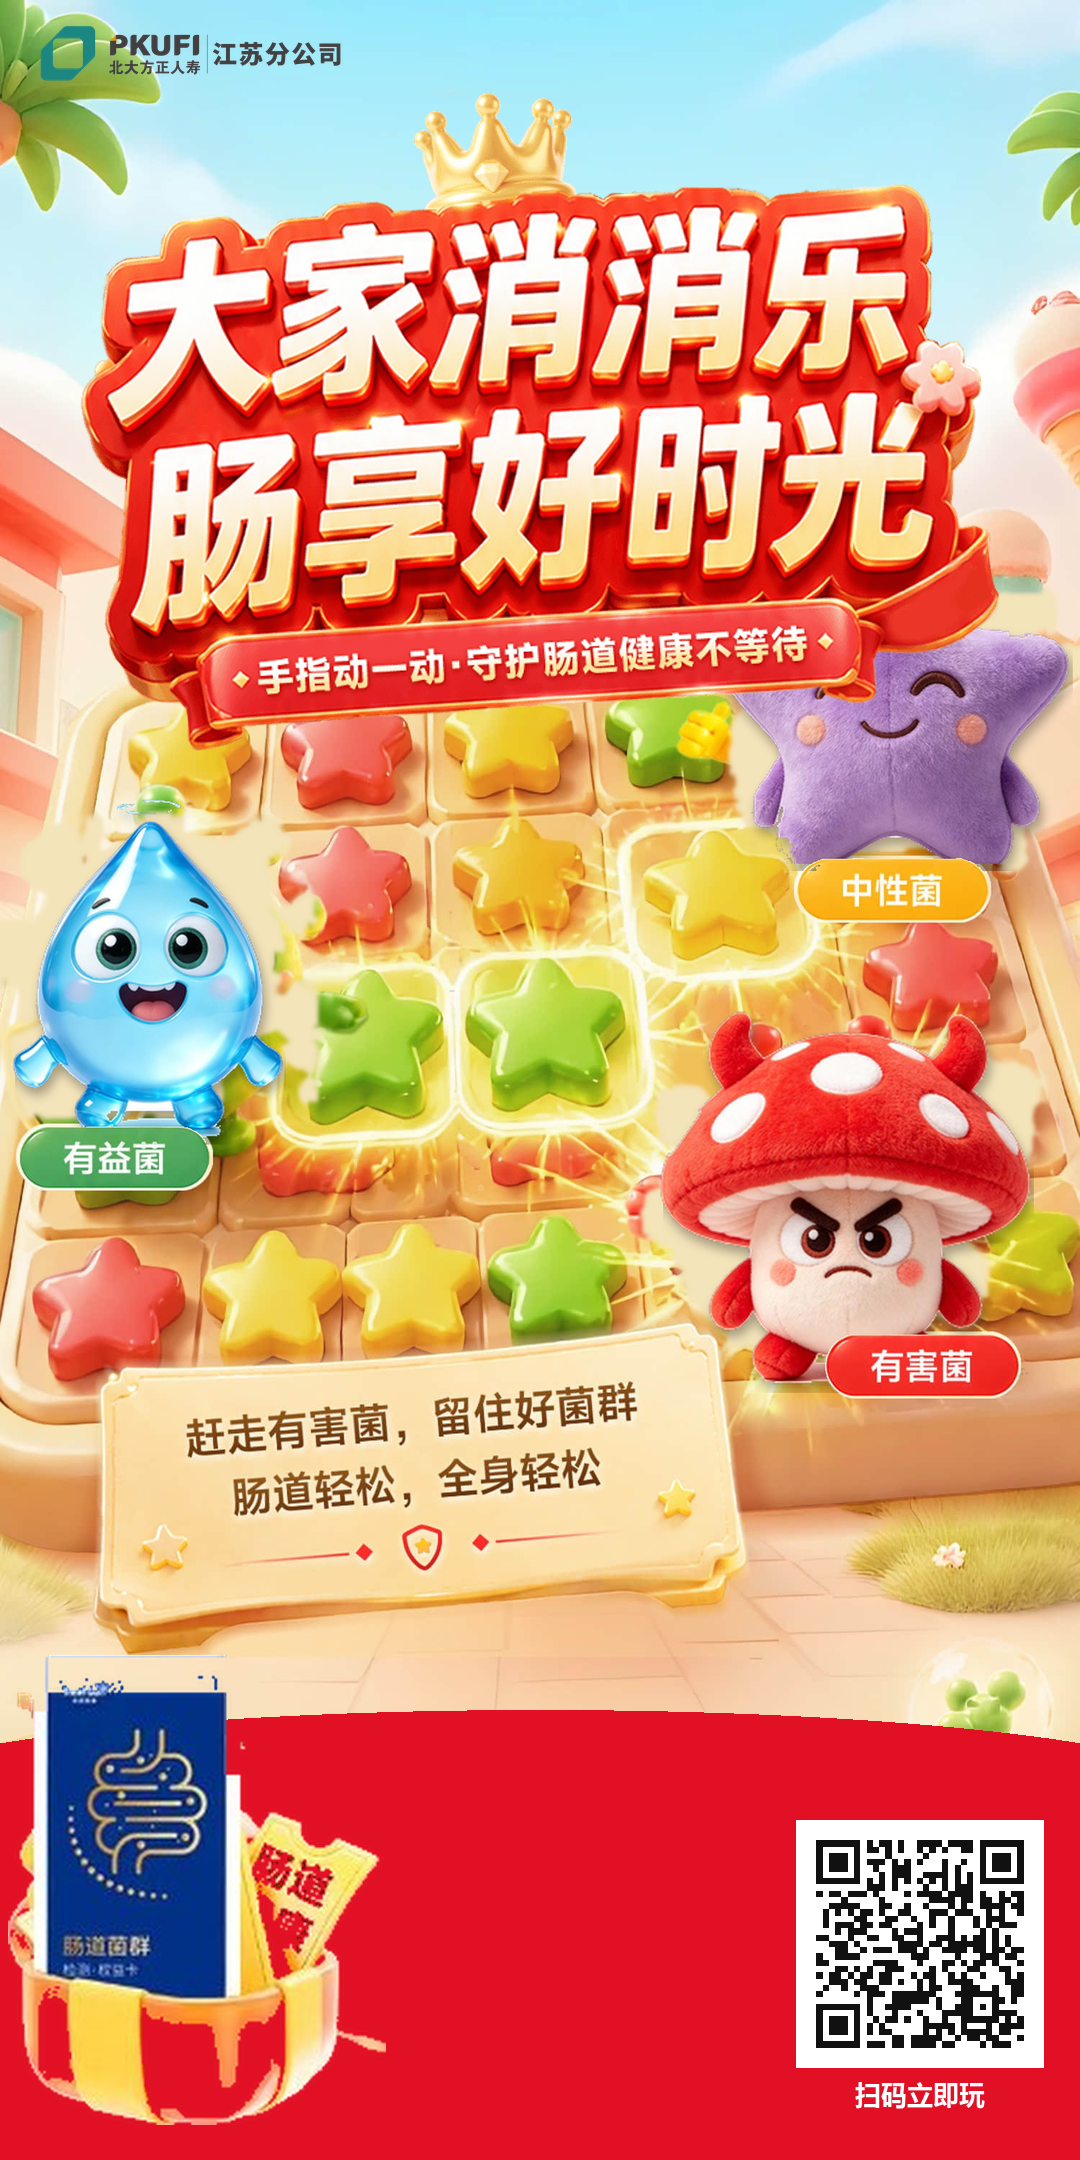
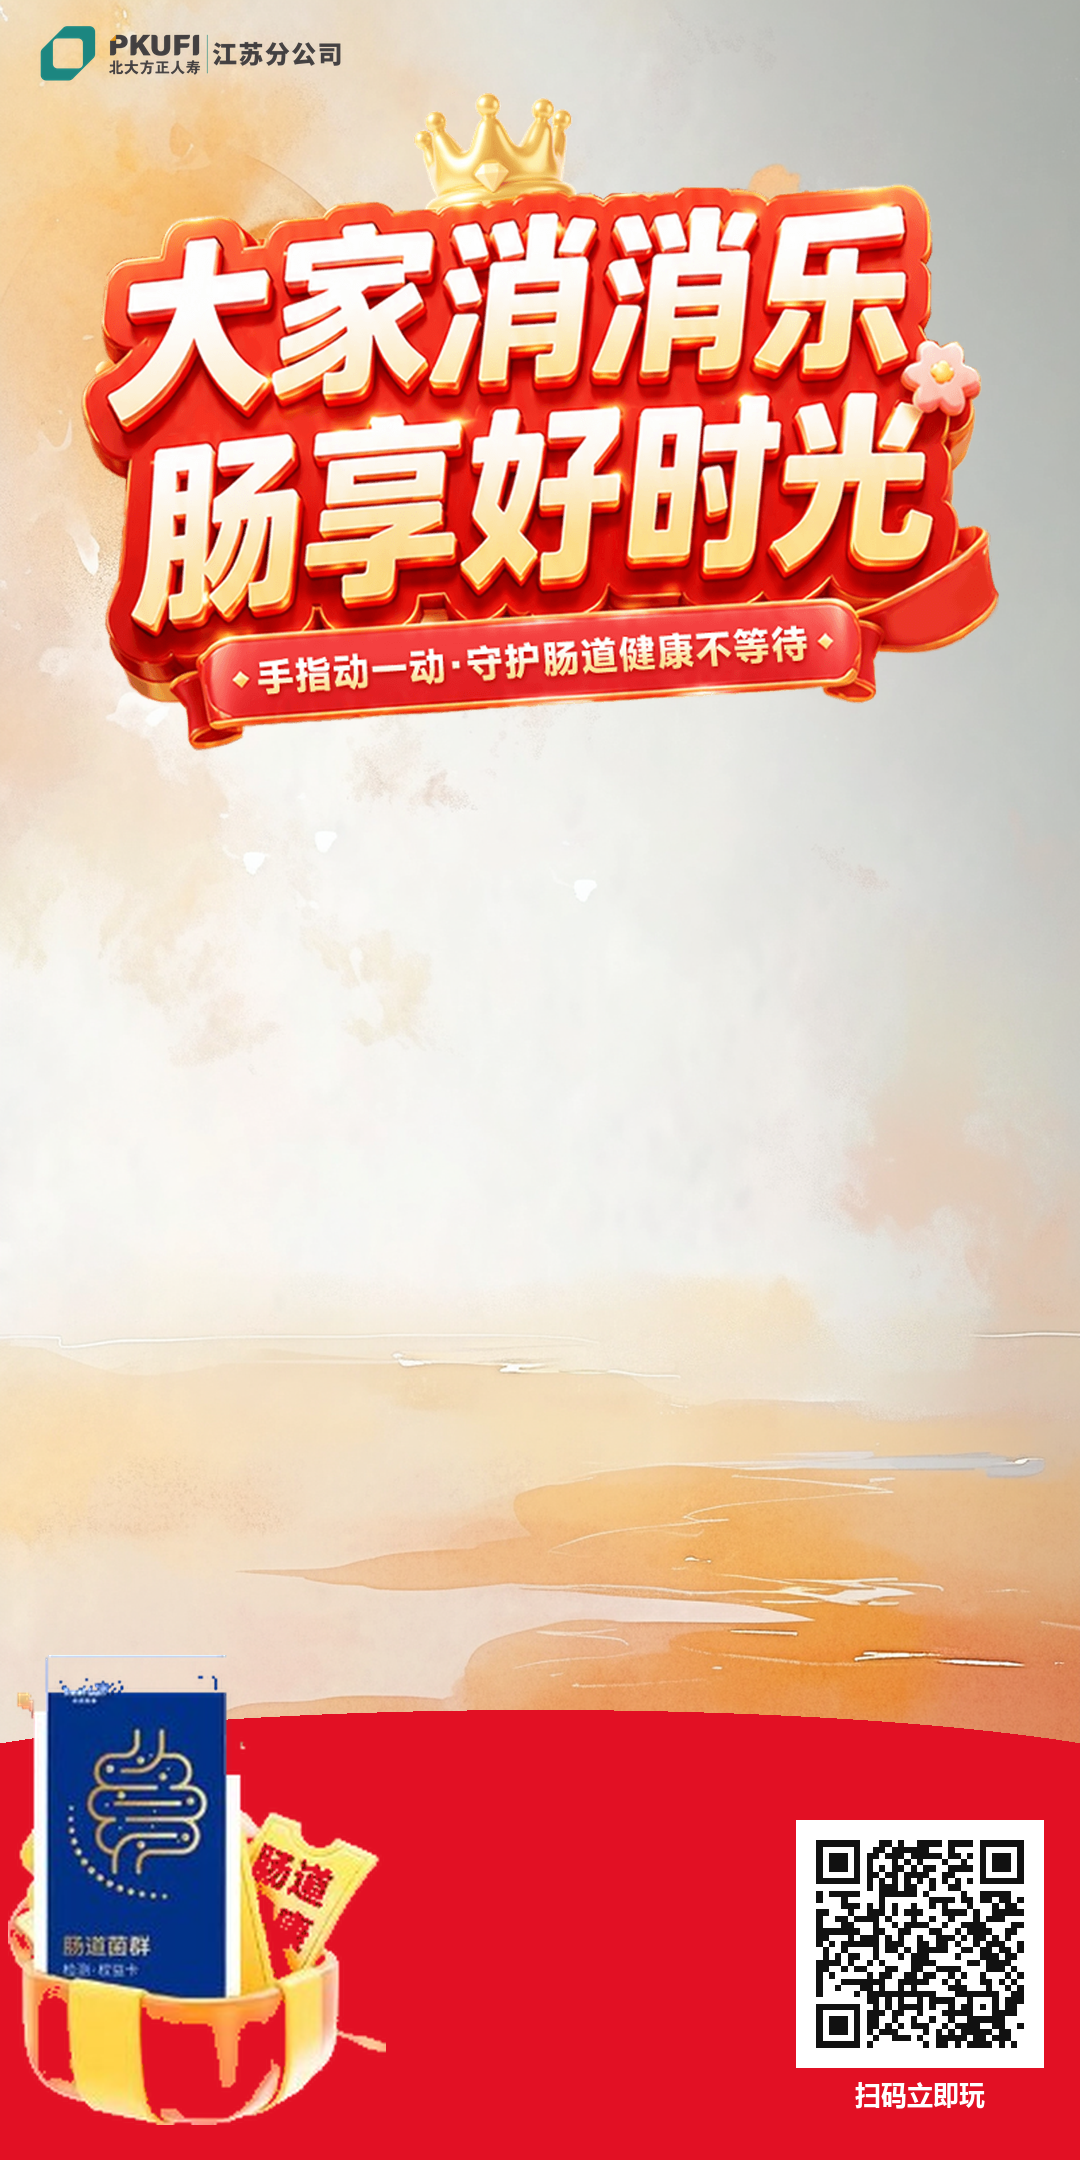
Use the watercolor scene as the homepage, level, and poster background.

diff --git a/index.html b/index.html
@@ -7,7 +7,7 @@
   <meta http-equiv="Expires" content="0" />
   <meta name="viewport" content="width=device-width, user-scalable=no, initial-scale=1, maximum-scale=1, viewport-fit=cover" />
   <title>大家消消乐 肠享好时光</title>
-  <link rel="stylesheet" href="css/game.css?v=12" />
+  <link rel="stylesheet" href="css/game.css?v=13" />
 </head>
 <body>
   <div class="phone" id="phone">
@@ -59,8 +59,8 @@
     <img class="logo" src="image/logo.png" alt="北大方正人寿江苏分公司" />
     <div id="result-title" class="result-title win"></div>
     <div class="score-card">
-      <div class="score-line"><img src="assets/static/image/bad.e7701dce.png?v=12" alt="" /><span>成功消除有害菌</span><b id="result-bad">0个</b></div>
-      <div class="score-line"><img src="assets/static/image/good2.0b5e797e.png?v=12" alt="" /><span>成功守护有益菌</span><b id="result-good">0个</b></div>
+      <div class="score-line"><img src="assets/static/image/bad.e7701dce.png?v=13" alt="" /><span>成功消除有害菌</span><b id="result-bad">0个</b></div>
+      <div class="score-line"><img src="assets/static/image/good2.0b5e797e.png?v=13" alt="" /><span>成功守护有益菌</span><b id="result-good">0个</b></div>
       <div class="score-line"><span>得分</span><b id="result-score">0</b></div>
       <div id="result-rank-block" class="rank-card">
         <img id="result-rank-img" class="badge" alt="" />
@@ -83,7 +83,7 @@
 
   <section id="howto" class="overlay howto" hidden>
     <div class="howto-card">
-      <img class="rules" src="assets/static/image/game_rules.b7cd129a.png?v=12" alt="游戏规则" />
+      <img class="rules" src="assets/static/image/game_rules.b7cd129a.png?v=13" alt="游戏规则" />
       <img class="finger" src="assets/static/image/finger.2957c077.png" alt="" />
     </div>
     <button type="button" data-action="howto-go"><img class="howto-go" src="assets/static/image/start.766e35a5.png" alt="开始" /></button>
@@ -122,7 +122,7 @@
 
   <div id="toast" class="toast" hidden></div>
   </div>
-  <script src="js/engine.js?v=12"></script>
-  <script src="js/app.js?v=12"></script>
+  <script src="js/engine.js?v=13"></script>
+  <script src="js/app.js?v=13"></script>
 </body>
 </html>

diff --git a/js/app.js b/js/app.js
@@ -3,11 +3,11 @@ const MEDIA = "assets/static/media/";
 const LOGO = "image/logo.png";
 
 const TILES = {
-  1: IMG + "bad.e7701dce.png?v=12",
-  2: IMG + "good1.bec550f3.png?v=12",
-  3: IMG + "good2.0b5e797e.png?v=12",
-  4: IMG + "grape.ec727821.png?v=12",
-  5: IMG + "carrot.85a5d31e.png?v=12",
+  1: IMG + "bad.e7701dce.png?v=13",
+  2: IMG + "good1.bec550f3.png?v=13",
+  3: IMG + "good2.0b5e797e.png?v=13",
+  4: IMG + "grape.ec727821.png?v=13",
+  5: IMG + "carrot.85a5d31e.png?v=13",
 };
 
 const ROUND_TITLE = [
@@ -224,7 +224,7 @@ function renderRank() {
 
 function renderModal() {
   const map = {
-    rules: { title: IMG + "tab_rules.2280077b.png", body: IMG + "rules.d30d95b1.png?v=12", frame: IMG + "bg_modal2.f6c41725.png" },
+    rules: { title: IMG + "tab_rules.2280077b.png", body: IMG + "rules.d30d95b1.png?v=13", frame: IMG + "bg_modal2.f6c41725.png" },
     prize: { title: IMG + "tab_prize.50b50917.png", body: IMG + "tab_prize.50b50917.png", frame: IMG + "bg_modal1.90a830b4.png" },
     protocol: { title: IMG + "title_rules.d6d6c7d2.png", body: IMG + "protocol.e3577188.png", frame: IMG + "bg_modal3.3d7bc8c7.png" },
   };

diff --git a/css/game.css b/css/game.css
@@ -33,8 +33,8 @@ button, img { user-select: none; }
 button { border: 0; padding: 0; background: transparent; cursor: pointer; }
 .screen, .overlay { position: absolute; inset: 0; }
 .screen { min-height: 100%; background-position: center top; background-size: cover; background-repeat: no-repeat; }
-#home { background-image: url("../assets/static/image/bg.ead9a73e.jpg?v=12"); }
-#game { background-image: url("../assets/static/image/bg.5f682dba.jpg?v=12"); overflow: auto; }
+#home { background-image: url("../assets/static/image/bg-scene.jpg?v=13"); }
+#game { background-image: url("../assets/static/image/bg-scene.jpg?v=13"); overflow: auto; }
 #rank { background-image: url("../assets/static/image/bg.22ba2e11.jpg"); overflow: auto; }
 #poster { background-image: url("../assets/static/image/bg.9fb073bd.jpg"); overflow: auto; }
 #loading {

diff --git a/make_poster.py b/make_poster.py
@@ -5,11 +5,11 @@ import qrcode
 from PIL import Image, ImageDraw, ImageFont
 
 ROOT = os.path.dirname(os.path.abspath(__file__))
-PLAY_URL = os.environ.get("PLAY_URL", "https://hua691.github.io/gut-match3-play/?v=12")
+PLAY_URL = os.environ.get("PLAY_URL", "https://hua691.github.io/gut-match3-play/?v=13")
 OUT = os.path.join(ROOT, "海报.png")
 
 W, H = 1080, 2160
-BG = os.path.join(ROOT, "assets", "static", "image", "bg.ead9a73e.jpg")
+BG = os.path.join(ROOT, "背景.png")
 THEME = os.path.join(ROOT, "assets", "static", "image", "theme.24d3b741.png")
 LOGO = os.path.join(ROOT, "image", "logo.png")
 KIT = os.path.join(ROOT, "assets", "static", "image", "prize_kit.png")
@@ -17,10 +17,8 @@ FONT = r"C:\Windows\Fonts\msyhbd.ttc"
 
 def main():
     src = Image.open(BG).convert("RGBA")
-    # 从天空取到木牌，底部花草留给红条
-    src = src.crop((0, 160, src.width, 2680))
     scale = W / src.width
-    bg = src.resize((W, int(src.height * scale)), Image.Resampling.LANCZOS)
+    bg = src.resize((W, int(round(src.height * scale))), Image.Resampling.LANCZOS)
     canvas = Image.new("RGBA", (W, H), (227, 18, 36, 255))
     canvas.paste(bg, (0, 0), bg)
 
